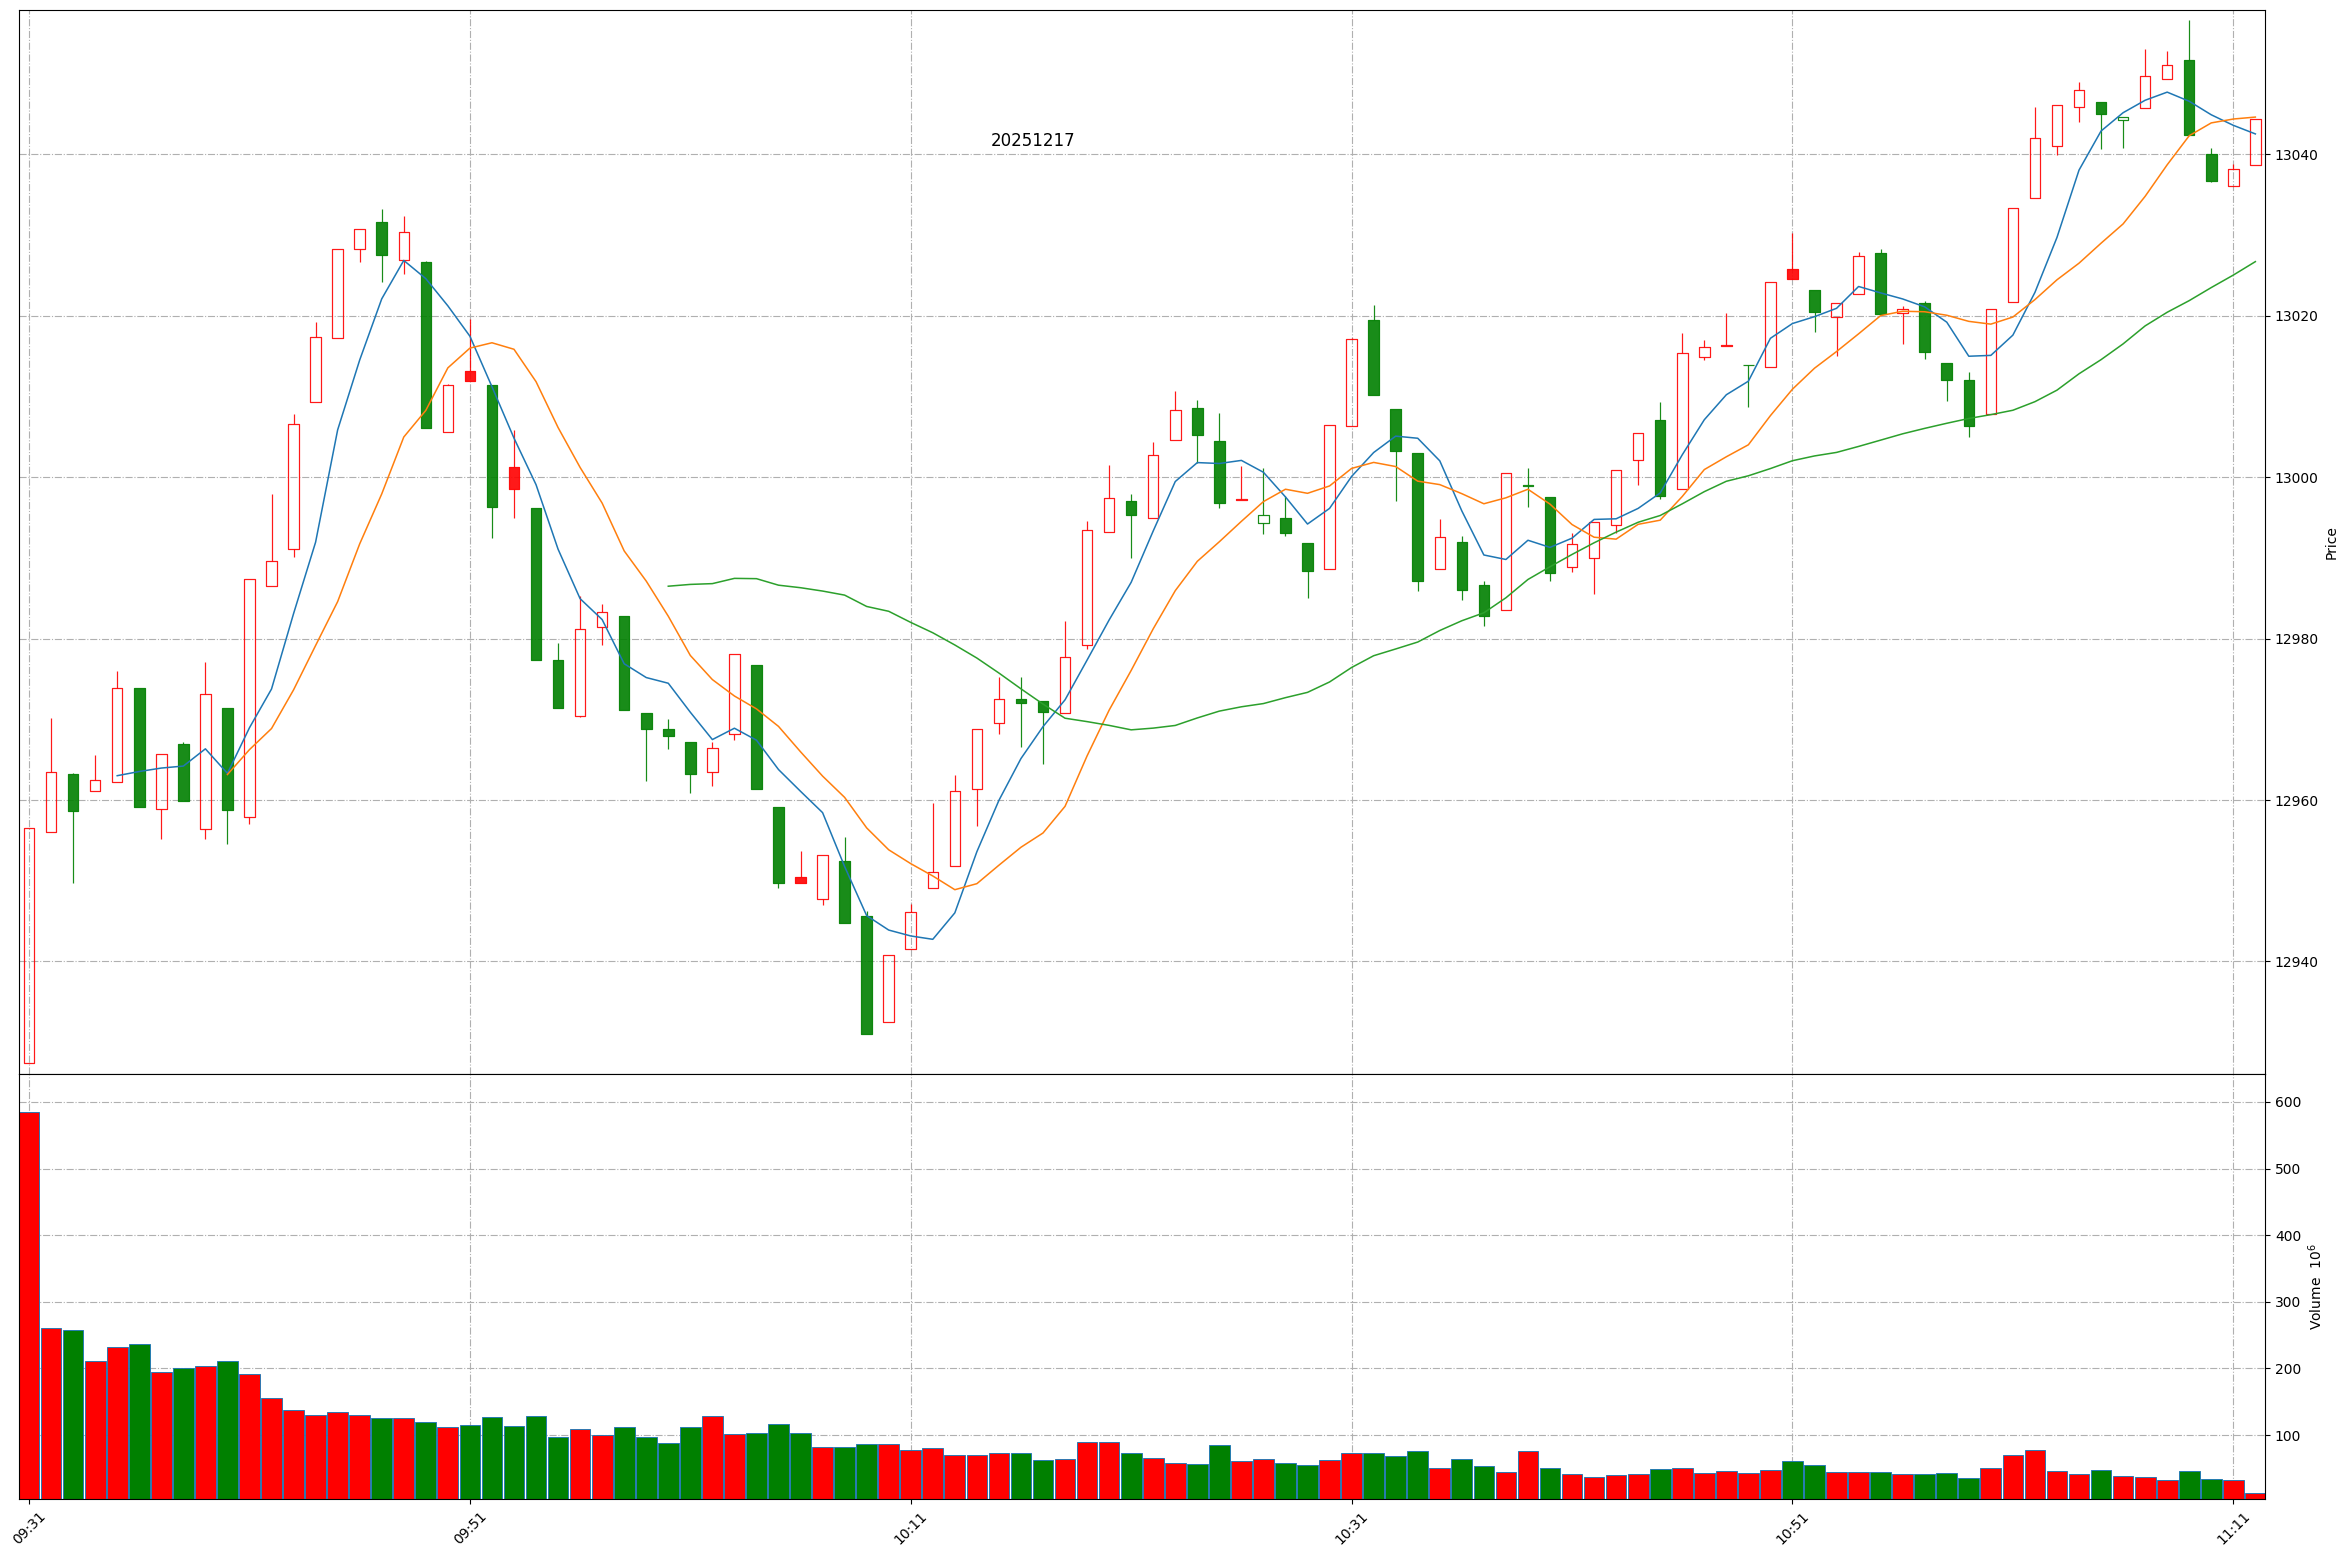
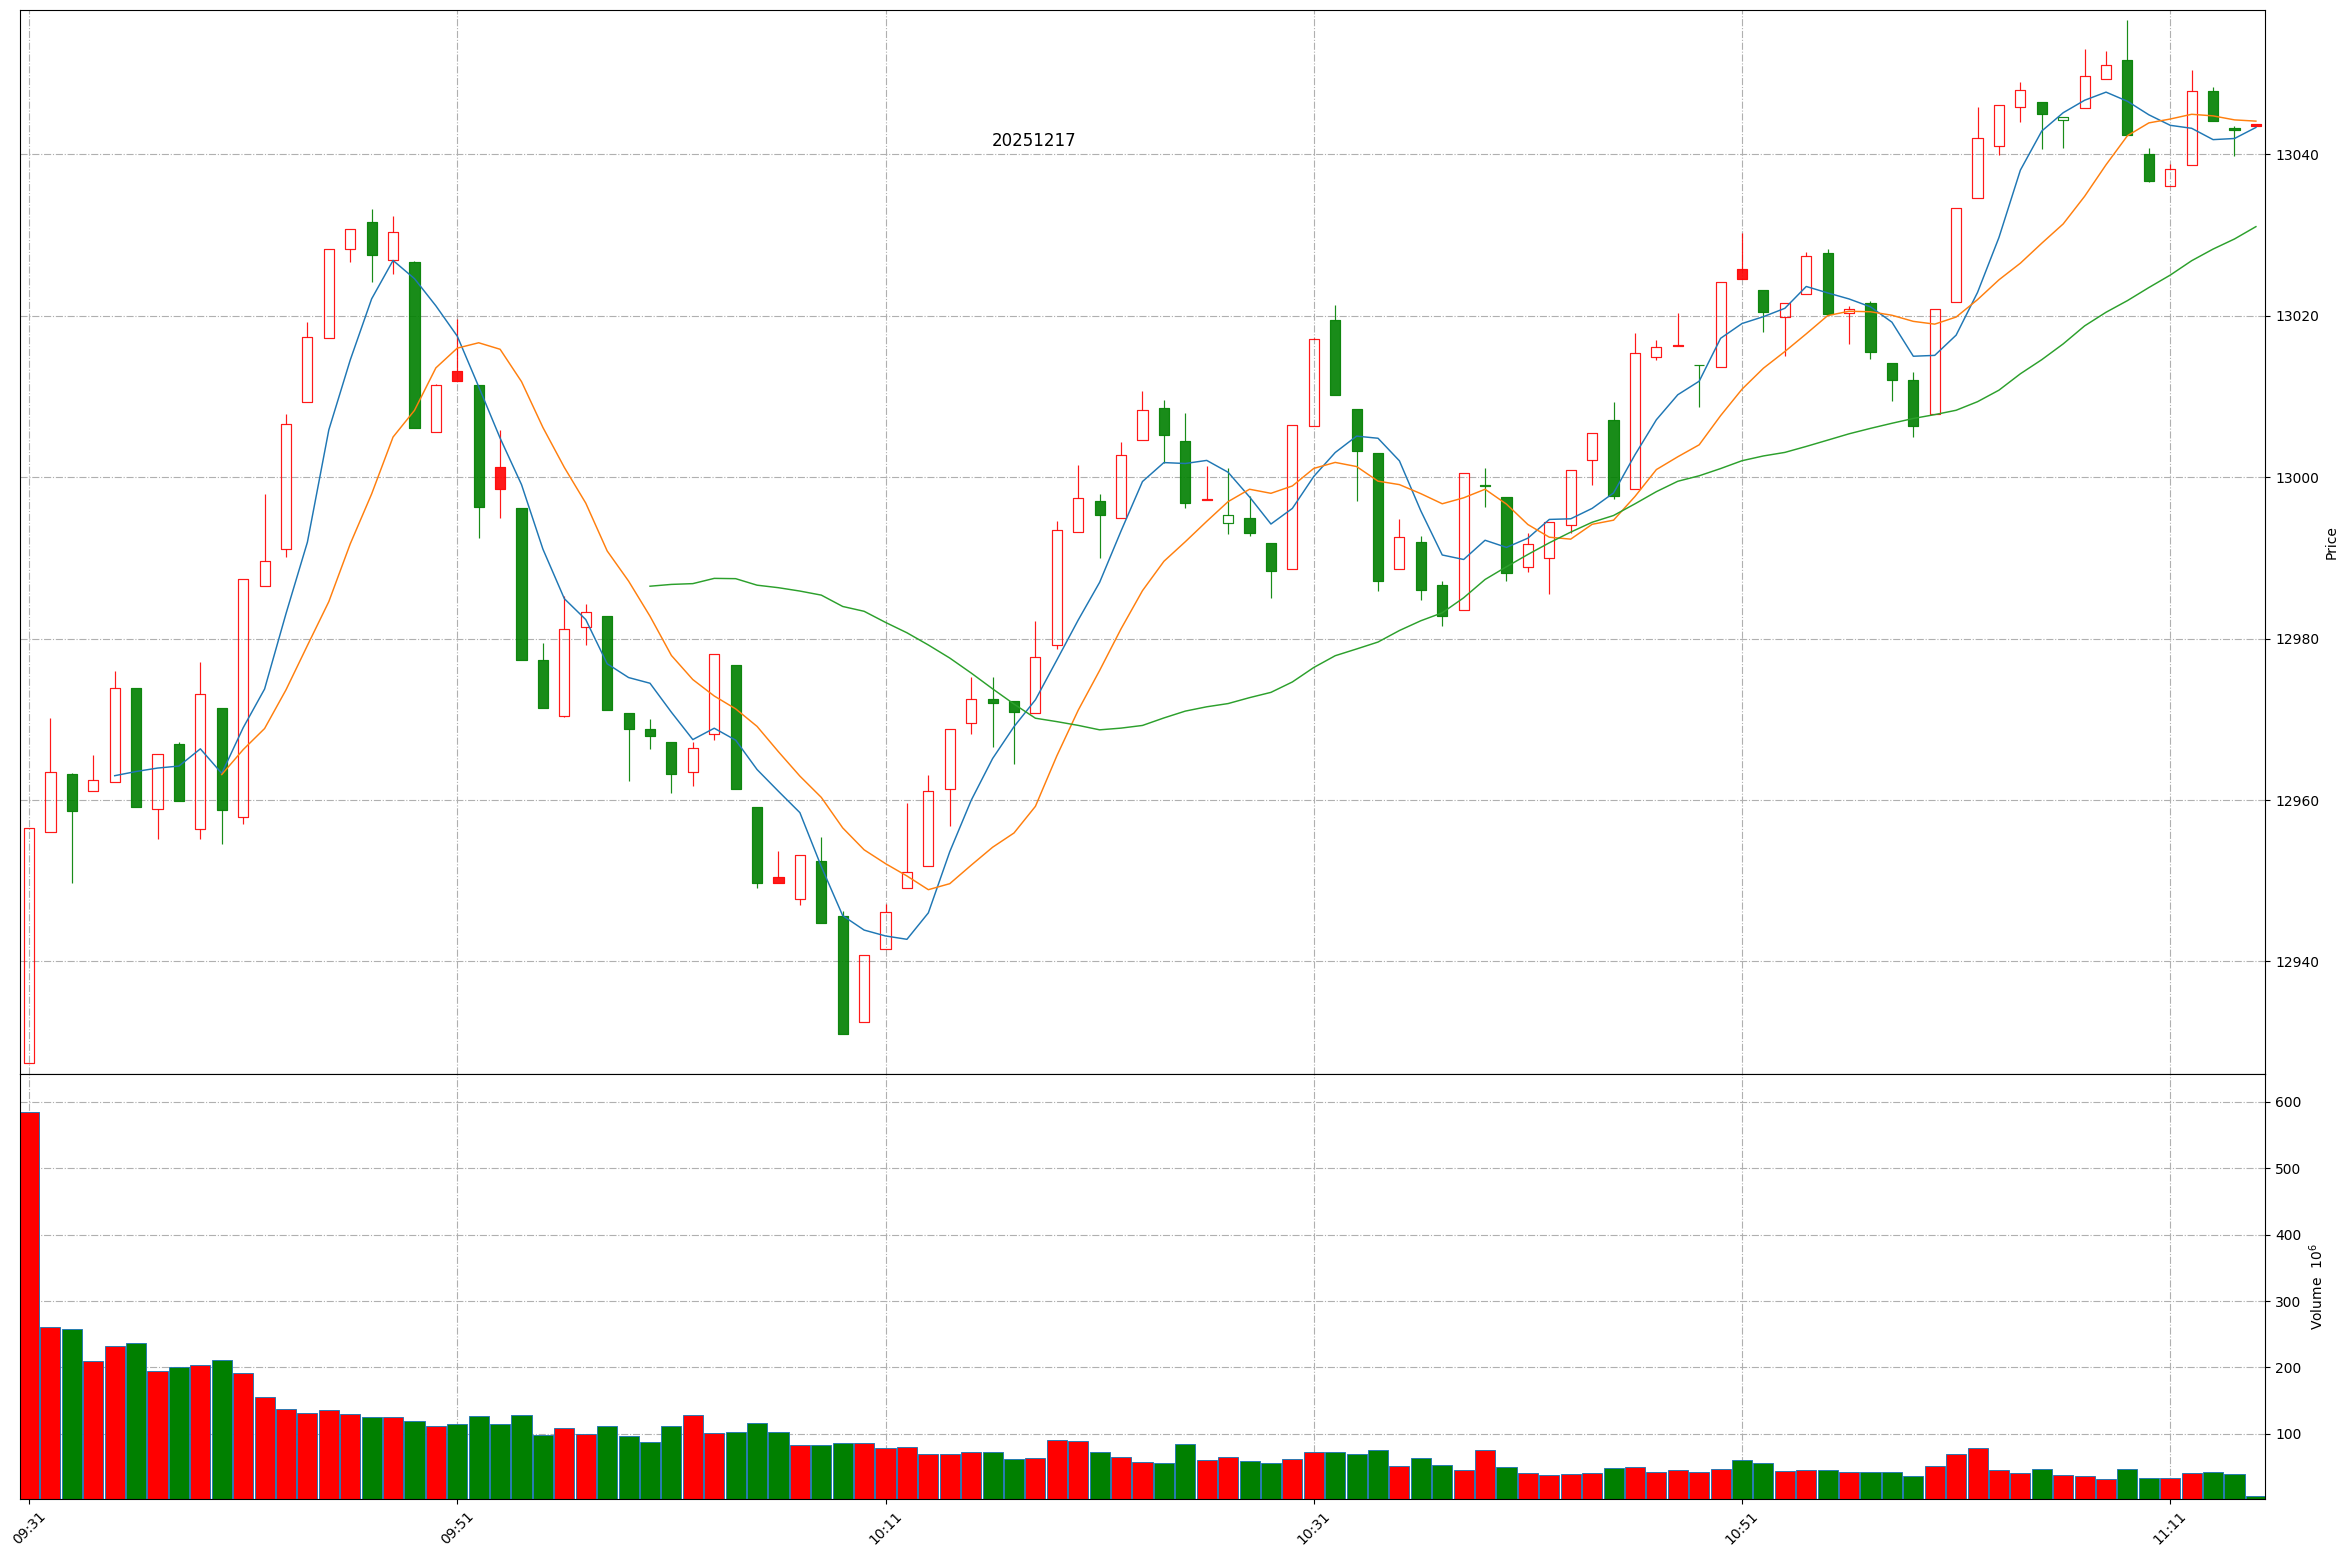
Github action update at 2025-12-17 11:14:29.

Changed region(s): [[0.0311, 0.0308, 0.9638, 0.6782], [0.0, 0.8632, 0.9638, 0.9865], [0.5596, 0.4008, 0.5907, 0.4316]]

diff --git a/README.md b/README.md
@@ -1,11 +1,11 @@
 
 # Daily-A-share-market-quotes 每日 A 股指数（5min 更新）- 20251217
 
-### 上证指数 20251217 11:11
+### 上证指数 20251217 11:14
 ![](./fig/2025/12/20251217-sh000001.png)
 
-### 深证成指 20251217 11:11
+### 深证成指 20251217 11:14
 ![](./fig/2025/12/20251217-sz399001.png)
 
-### 北证50 20251217 11:11
+### 北证50 20251217 11:14
 ![](./fig/2025/12/20251217-bj899050.png)
